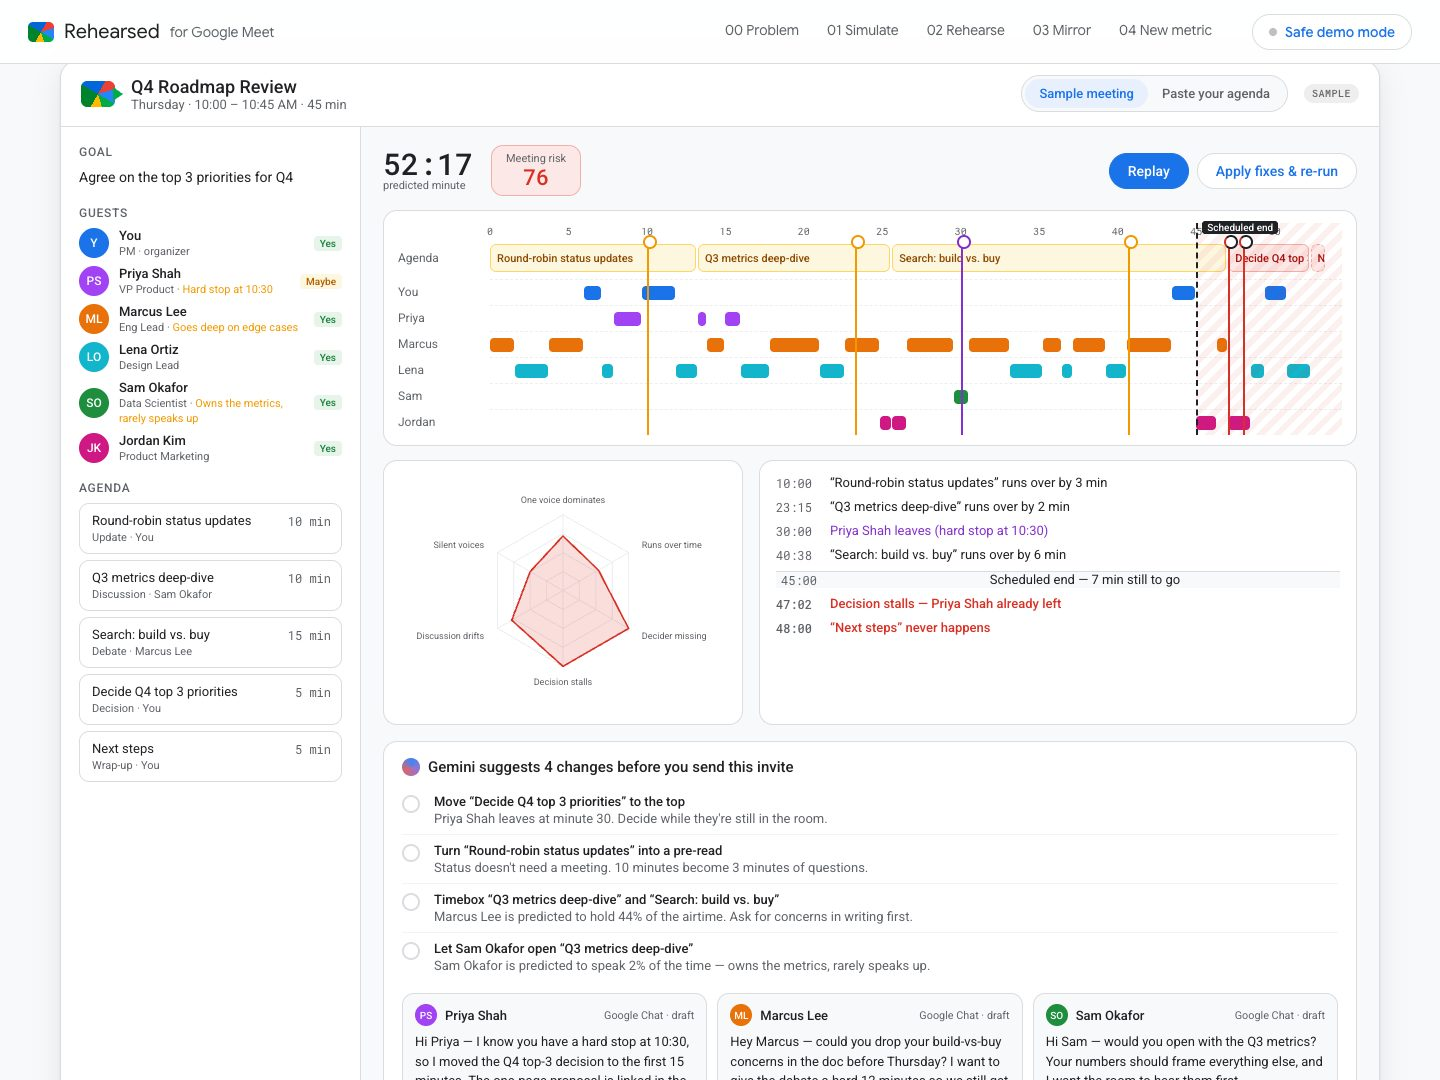
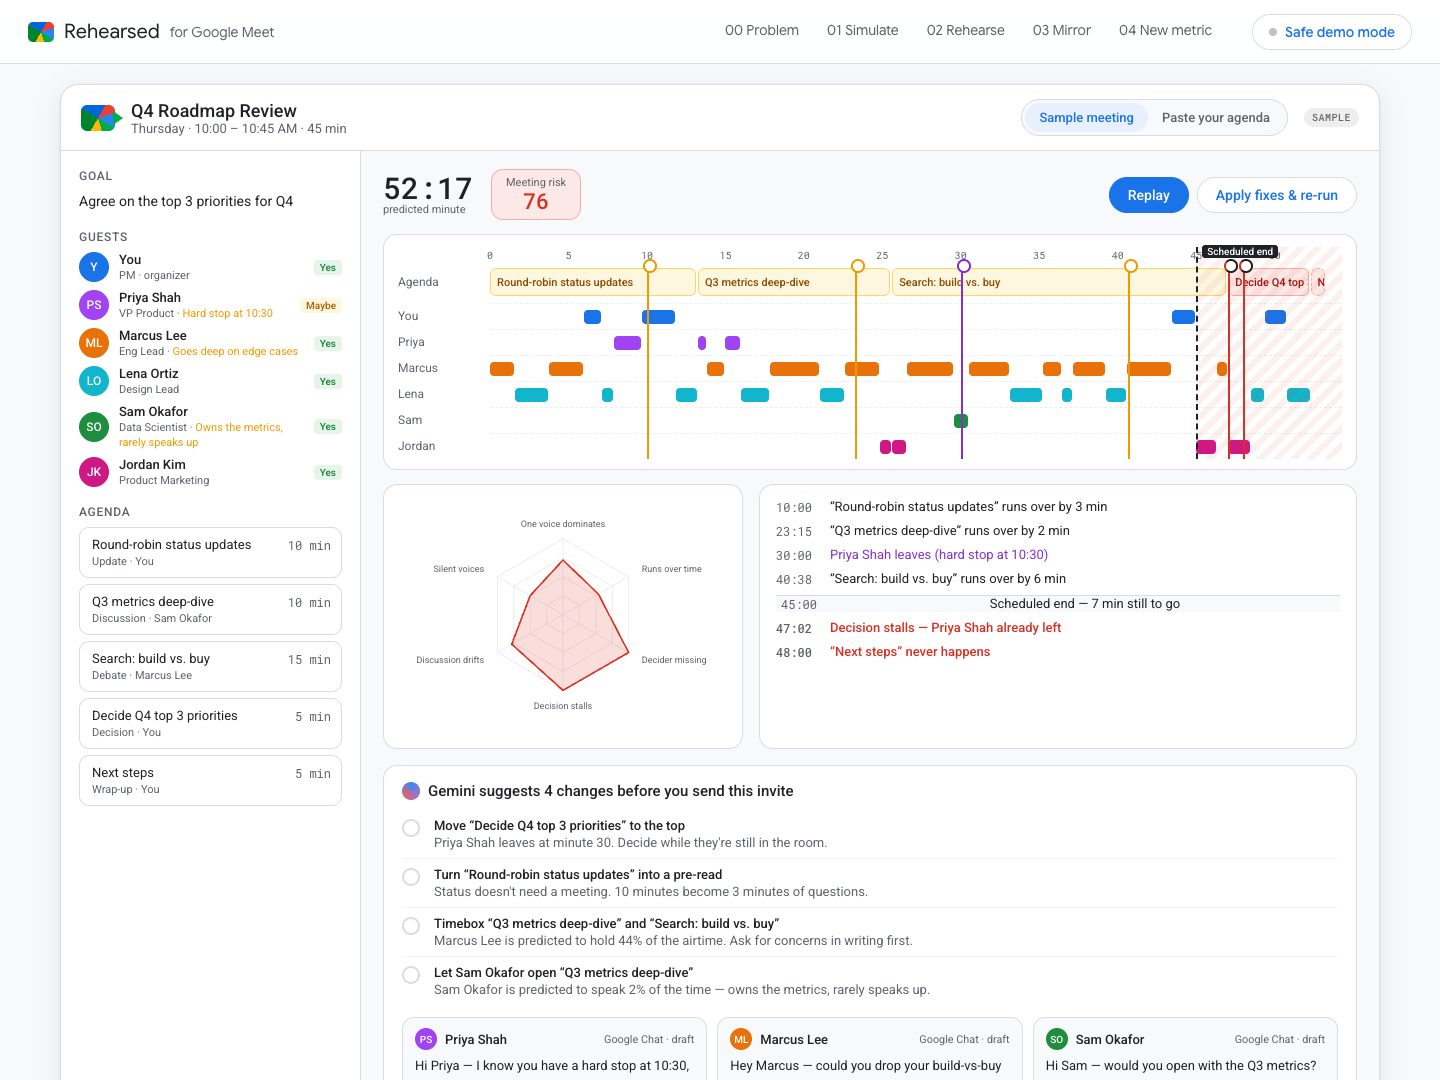
Show a screenshot for every feature on project detail pages
capture.mjs now shoots each feature's key moment (trap map, weekly
report, blind box, time capsule, fixed simulator, rehearsal, mirror),
re-measuring after windows slide in. Also fix the YouTube weekly report
shrinking its headline numbers (.wrap-card span matched nested spans).

diff --git a/projects.js b/projects.js
@@ -41,14 +41,17 @@ export const PROJECTS = [
       {
         name: 'Anti-interest profile',
         text: 'Name the person you don\'t want to become ("someone led around by outrage"). Gemini blocks matching videos in the feed, explains why, and offers a better alternative. Import Google Takeout to see your own trap map and late-night spirals.',
+        shots: ['assets/youtube-unhooked/trap-map.jpg', 'assets/youtube-unhooked/report.jpg'],
       },
       {
         name: 'Blind box channel',
         text: 'Once a day, the outside world programs your feed: today\'s date, the weather where you are, a stranger\'s birthday, a random Wikipedia article. Every video says why you are seeing it today.',
+        shots: ['assets/youtube-unhooked/blind-box.jpg'],
       },
       {
         name: 'Time capsule',
         text: 'A separate entrance that only shows videos uploaded on this date one, three, five, or ten years ago. The interface ages with the era.',
+        shots: ['assets/youtube-unhooked/time-capsule.jpg'],
       },
     ],
     metric: { from: 'Watch time', to: 'Worth-it rate', note: 'Sessions rated "worth it" / all sessions' },
@@ -87,14 +90,17 @@ export const PROJECTS = [
       {
         name: 'Meeting flight simulator',
         text: 'From the agenda and guest list alone, a simulator plays the meeting forward: who dominates, which item overruns, whether the decision survives the decider\'s hard stop. One click applies fixes, drafts pre-meeting messages with Gemini, and replays it — risk drops from 76 to 10.',
+        shots: ['assets/meet-rehearsed/simulator-fixed.jpg'],
       },
       {
         name: 'Rehearsal room',
         text: 'Gemini plays the toughest people in the room and asks the questions you are dreading. Answer out loud; get a score, the one fix that matters, and a stronger version of your answer.',
+        shots: ['assets/meet-rehearsed/rehearsal.jpg'],
       },
       {
         name: 'Meeting mirror',
         text: 'A private game-film review of how you showed up: talk share, interruptions, filler words, key moments on a timeline, and exactly one thing to try next time — which feeds the next rehearsal.',
+        shots: ['assets/meet-rehearsed/mirror.jpg'],
       },
     ],
     metric: {

diff --git a/site.js b/site.js
@@ -96,7 +96,8 @@ function renderDetail(id) {
       <div class="gallery">${p.shots.map(s => `<img src="${s}" alt="" />`).join('')}</div>
       <section class="sec"><small>${UI.problem}</small><p>${esc(p.problem)}</p></section>
       <section class="sec"><small>${UI.insight}</small><div><p style="margin-bottom:14px">${esc(p.idea)}</p><div class="shift"><div class="from">${esc(p.shift.from)}</div><div class="to">${esc(p.shift.to)}</div></div></div></section>
-      <section class="sec"><small>${UI.built}</small><div class="features">${p.features.map((f, i) => `<div class="feature"><h4><span>0${i + 1}</span>${esc(f.name)}</h4><p>${esc(f.text)}</p></div>`).join('')}</div></section>
+      <section class="sec"><small>${UI.built}</small><div class="features">${p.features.map((f, i) => `<div class="feature"><h4><span>0${i + 1}</span>${esc(f.name)}</h4><p>${esc(f.text)}</p>${
+        f.shots?.length ? `<div class="feature-shots n${f.shots.length}">${f.shots.map(s => `<img src="${s}" alt="${esc(f.name)}" loading="lazy" />`).join('')}</div>` : ''}</div>`).join('')}</div></section>
       <section class="sec"><small>${UI.metric}</small><div><div class="metric"><span class="m from">${esc(p.metric.from)}</span><em>→</em><span class="m to">${esc(p.metric.to)}</span></div><p class="metric-note">${esc(p.metric.note)}</p></div></section>
       <section class="sec"><small>${UI.business}</small>${list(p.business)}</section>
       <section class="sec"><small>${UI.tech}</small>${list(p.tech)}</section>

diff --git a/youtube-unhooked/css/shell.css b/youtube-unhooked/css/shell.css
@@ -133,7 +133,7 @@ section.chapter { min-height: 100vh; padding: 18vh 10vw 12vh; position: relative
 .wrap-card small { font-size: 15px; font-weight: 500; }
 .wrap-card > b { font-family: var(--latin); font-weight: 400; font-size: clamp(64px, 7vw, 110px); line-height: .9; }
 .wrap-card > b i { font-family: var(--serif); font-style: normal; font-size: .3em; margin-left: 6px; }
-.wrap-card span { font-size: 14px; }
+.wrap-card > span { font-size: 14px; }
 .w1 { background: var(--calm); }
 .w2 { background: #f6d24a; }
 .w3 { background: var(--trap); color: var(--bone); }

diff --git a/site.css b/site.css
@@ -105,3 +105,6 @@ a { color: inherit; }
   .thumbs { width: 100%; flex-direction: row; }
   .thumbs img { width: 50%; }
 }
+.feature-shots { display: grid; gap: 10px; margin-top: 14px; }
+.feature-shots.n2 { grid-template-columns: 1fr 1fr; }
+.feature-shots img { width: 100%; aspect-ratio: 4/3; object-fit: cover; object-position: top; border-radius: 8px; border: 1px solid var(--line); display: block; }
